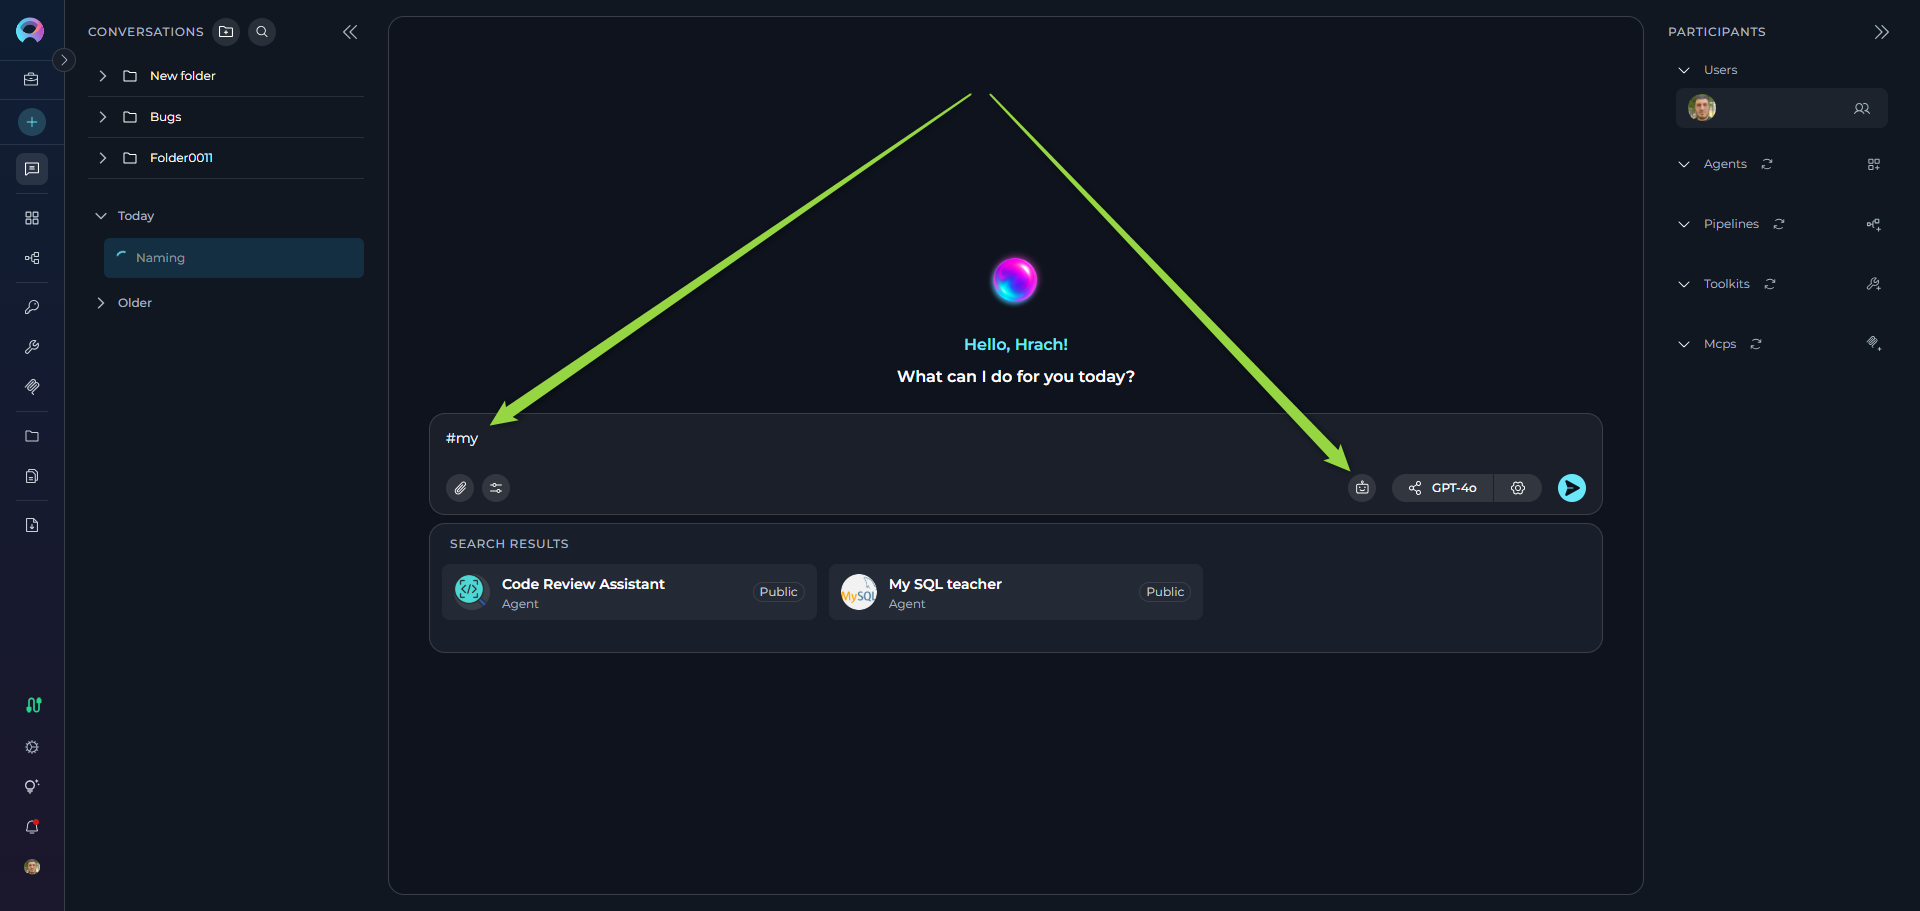
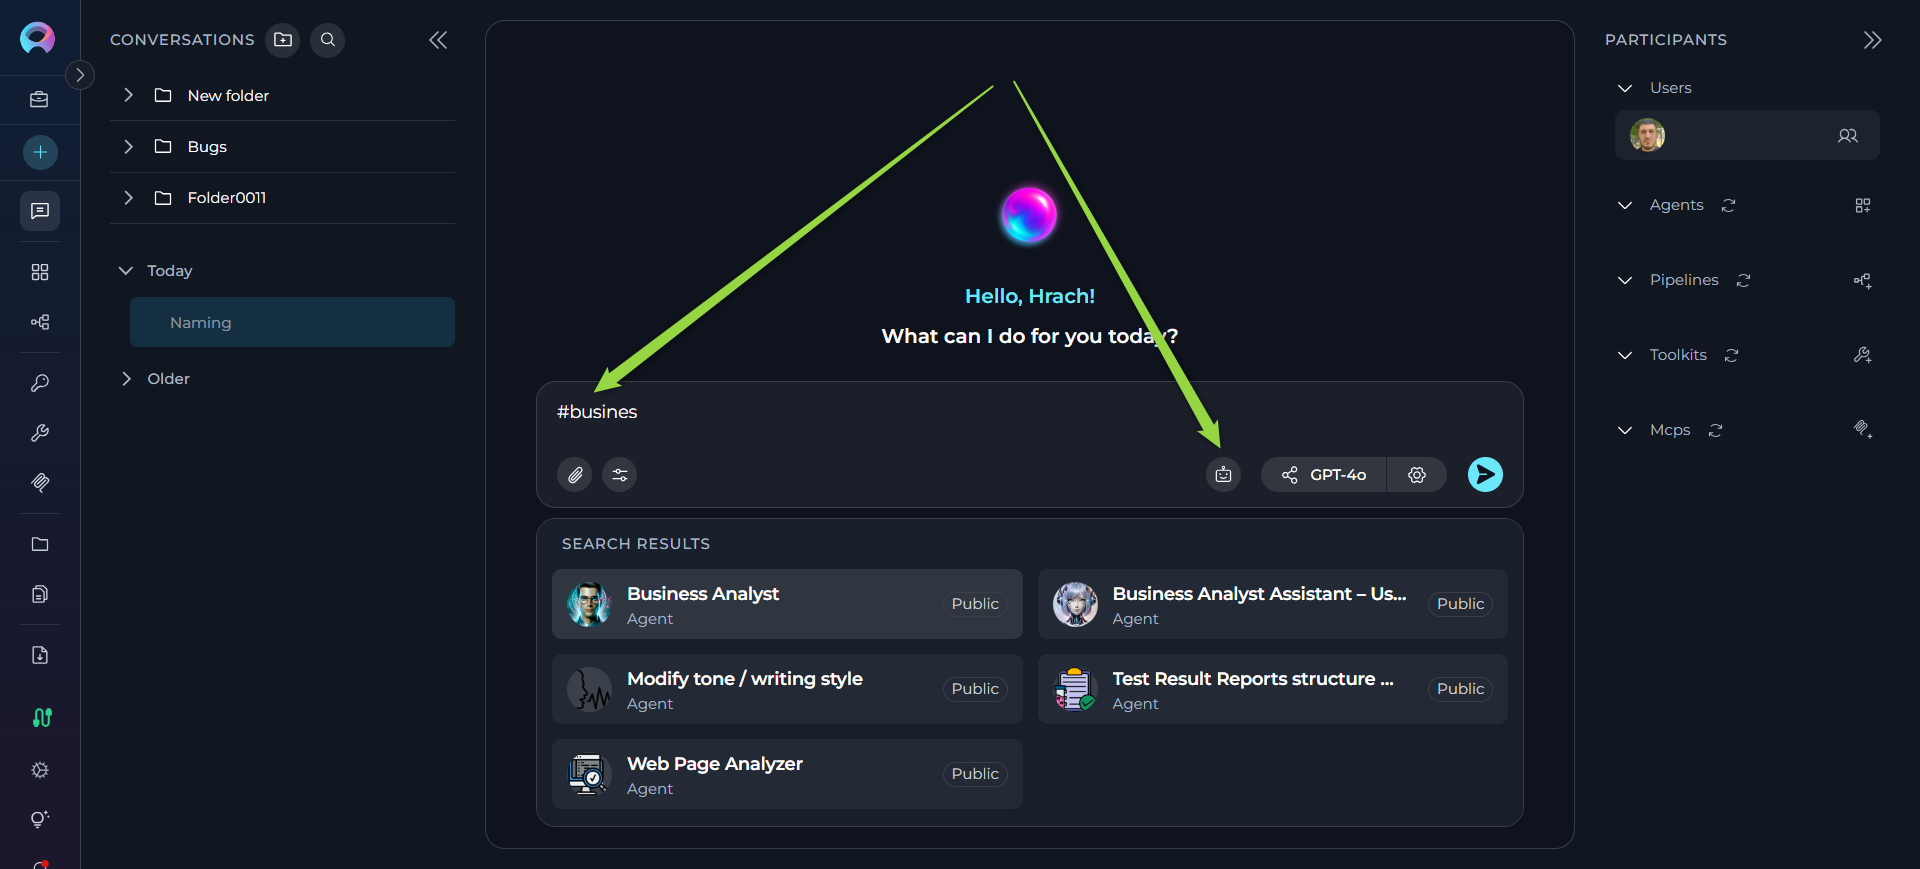
Update public items guide, remove toolkit content, add Business Analyst example

diff --git a/docs/how-tos/chat-conversations/use-public-items-from-chat.md b/docs/how-tos/chat-conversations/use-public-items-from-chat.md
@@ -1,8 +1,8 @@
-# How to Use Public Agents, Pipelines, and Toolkits from Chat
+# How to Use Public Agents and Pipelines from Chat
 
 ## Introduction
 
-While the **Public Project** has been removed from Elitea, **public agents, pipelines, and toolkits** remain fully accessible and usable within **Elitea Chat**. These community-shared resources provide pre-built workflows, specialized capabilities, and integrations that you can leverage directly in your conversations without needing to create them from scratch.
+While the **Public Project** has been removed from Elitea, **public agents and pipelines** remain fully accessible and usable within **Elitea Chat**. These community-shared resources provide pre-built workflows and specialized capabilities that you can leverage directly in your conversations without needing to create them from scratch.
 
 This guide explains how to discover, access, and use these public entities from the Chat interface, as well as their permissions and limitations.
 
@@ -10,7 +10,7 @@ This guide explains how to discover, access, and use these public entities from 
 
 ## Overview
 
-### What Are Public Agents, Pipelines, and Toolkits?
+### What Are Public Agents and Pipelines?
 
 **Public Agents:**
 
@@ -26,13 +26,6 @@ This guide explains how to discover, access, and use these public entities from 
 * Designed to handle complex, sequential tasks
 * Examples: Test case generation workflows, user story review pipelines
 
-**Public Toolkits:**
-
-* Collections of tools and integrations that extend chat capabilities
-* Bundle reusable actions for external services (GitHub, Jira, Confluence, etc.)
-* Can be shared for community reuse
-* Examples: GitHub integration toolkit, Slack connector, custom API toolkits
-
 ### Key Characteristics
 
 * **Community-Driven:** Shared by other Elitea users after quality review
@@ -45,7 +38,7 @@ This guide explains how to discover, access, and use these public entities from 
 
 ## Accessing Public Entities from Chat
 
-Public agents, pipelines, and toolkits are accessible directly within any conversation through the Chat interface.
+Public agents and pipelines are accessible directly within any conversation through the Chat interface.
 
 ### Method 1: Using the # Search
 
@@ -57,12 +50,12 @@ The quickest way to find and add public entities is using the `#` symbol:
 
 2. **Search for Public Entities:**
       * In the message input box, type `#` followed by the name or keywords
-      * A dropdown list appears showing matching agents, pipelines, and toolkits
+      * A dropdown list appears showing matching agents and pipelines
       * The list includes both your own entities and public community entities
       * Public entities are marked with a **"Public"** chip/badge for easy identification
 
 3. **Select the Entity:**
-      * Click on the desired agent, pipeline, or toolkit from the dropdown
+      * Click on the desired agent or pipeline from the dropdown
       * The selected entity appears as a chip above the input box
 
 4. **Send Your Message:**
@@ -70,7 +63,7 @@ The quickest way to find and add public entities is using the `#` symbol:
       * Click **Send** or press Enter
       * The public item will process your request
 
-![Search with #](../img/how-tos/chat-conversations/public-items/public-items-search.png)
+![Search with #](../../img/how-tos/chat-conversations/public-items/public-items-search.png)
 
 ### Method 2: Using the Participants Panel
 
@@ -78,10 +71,10 @@ You can also add public entities through the **PARTICIPANTS** panel on the right
 
 1. **Locate the Participants Panel:**
       * On the right side of the chat interface, find the **PARTICIPANTS** section
-      * You'll see collapsible sections for **Agents**, **Pipelines**, and **Toolkits**
+      * You'll see collapsible sections for **Agents** and **Pipelines**
 
 2. **Add Public Entities:**
-      * Click the **+** icon next to **Agents**, **Pipelines**, or **Toolkits**
+      * Click the **+** icon next to **Agents** or **Pipelines**
       * A dropdown list appears with available entities, including public ones
       * Public entities are marked with a **"Public"** chip/badge
       * Select the public entity you want to add
@@ -90,11 +83,11 @@ You can also add public entities through the **PARTICIPANTS** panel on the right
       * Click on the participant in the **PARTICIPANTS** list to activate it
       * Type your message and send
 
-![Participants Panel](../img/how-tos/chat-conversations/public-items/public-items-add-participants.png)
+![Participants Panel](../../img/how-tos/chat-conversations/public-items/public-items-add-participants.png)
 
 ---
 
-## Using Public Agents / Pipelines / Toolkits
+## Using Public Agents and Pipelines
 
 ### Using Public Agents
 
@@ -115,7 +108,83 @@ You can also add public entities through the **PARTICIPANTS** panel on the right
 
 !!! info "Visual Indicators"
     - Public agents are marked with a **"Public"** chip/badge, making them easily identifiable. This badge appears on the agent card in lists and search results, helping you quickly distinguish between your private agents and community-shared public agents.
-    ![alt text](../img/how-tos/chat-conversations/public-items/2025-11-10_17h09_35.png)
+    ![Public chip badge](../../img/how-tos/chat-conversations/public-items/public-chip.png)
+
+!!! example "Example: Using Business Analyst Agent"
+    The **Business Analyst** agent helps create requirements documentation, diagrams, and analysis artifacts for your projects.
+    
+    **Scenario:** You need user stories for an e-commerce shopping cart feature.
+    
+    **Step 1: Add the Agent**
+    
+    * Type `#Business Analyst` in the chat input box
+    * The agent appears in PARTICIPANTS with a "Public" badge
+
+    ![Use agent](../../img/how-tos/chat-conversations/public-items/agent-example.png)
+    
+    **Step 2: Ask Your Question**
+    
+    ```
+    You: I need user stories for adding items to a shopping cart
+    ```
+    
+    **Step 3: Agent Response**
+    
+    The agent provides a comprehensive guide on creating user stories, including:
+    
+    **Core Format:**
+    ```
+    As a [user/role], I want [capability] so that [benefit]
+    ```
+    
+    **Complete User Story Example:**
+    
+    | Title | Description | Acceptance Criteria | Priority | Story Points |
+    |---|---|---|---|---|
+    | Add item to cart | As a registered shopper, I want to add a product to my cart so that I can purchase later | See scenarios below | High | 3 |
+    
+    **Acceptance Criteria (Gherkin format):**
+    ```gherkin
+    Scenario: Add an in-stock item
+      Given I am a logged-in shopper
+      And product "ABC123" is in stock
+      When I click "Add to cart"
+      Then the item appears in my cart with quantity 1
+      And I see "Added to cart"
+    
+    Scenario: Prevent adding out-of-stock item
+      Given product "XYZ999" is out of stock
+      When I click "Add to cart"
+      Then I see "Item out of stock"
+      And the cart is unchanged
+    ```
+    
+    **Agent Also Provides:**
+    
+    - ✔ **Quality Checklist**: INVEST criteria (Independent, Negotiable, Valuable, Estimable, Small, Testable)
+    - ✔ **Story Splitting Techniques**: How to break down large stories
+    - ✔ **Non-Functional Requirements**: Performance, security, accessibility considerations
+    - ✔ **Traceability**: Links to business rules, test cases, and requirements
+    - ✔ **Alternative Formats**: YAML, Jira markup, or Azure DevOps format
+    
+    **Step 4: Request Specific Format**
+    
+    ```
+    You: Can you provide this in YAML format for our Azure DevOps board?
+    ```
+    
+    The agent will regenerate the story in your preferred format with all necessary fields.
+    
+    **Benefits:**
+    
+    - ⚡ **Fast**: Get complete, well-structured user stories in seconds
+    - 📋 **Standards-Based**: Follows BABOK, IIBA, and Agile best practices
+    - 🔄 **Adaptable**: Works with Jira, Azure DevOps, Confluence, or plain Markdown
+    - 🎯 **Complete**: Includes acceptance criteria, NFRs, and traceability
+    
+    **Tip:** Click **⚙** next to the agent to adjust Temperature (lower = more structured output) for your current session.
+
+    ![Use agent](../../img/how-tos/chat-conversations/public-items/public-agent-example.png)
 
 ### Using Public Pipelines
 
@@ -137,30 +206,7 @@ You can also add public entities through the **PARTICIPANTS** panel on the right
 
 !!! info "Pipeline Configuration"
     Public pipelines are marked with a **"Public"** chip/badge for easy identification. You can view pipeline workflow and settings using the settings icon (⚙). Public pipelines open with limited editing capabilities when you click settings—you cannot modify or save the workflow, but you can inspect it to understand how it works.
-    ![alt text](../img/how-tos/chat-conversations/public-items/2025-11-10_17h09_35.png)
-
-
-### Using Public Toolkits
-
-**Step-by-Step:**
-
-1. **Add the Public Toolkit:**
-     * Click **+** next to **Toolkits** in the PARTICIPANTS panel
-     * Select the public toolkit from the dropdown
-
-2. **Toolkit Appears in Conversation:**
-     * The toolkit is added with all previously configured tools enabled
-     * Individual tools within the toolkit become available to active agents/pipelines
-
-3. **Use in Conversation:**
-     * Public toolkits work in conjunction with agents or pipelines
-     * When an agent/pipeline needs a capability, it can invoke tools from the public toolkit
-     * You can also directly request actions: "Use GitHub toolkit to create an issue"
-
-!!! tip "Toolkit Configuration"
-    Public toolkits are marked with a **"Public"** chip/badge for easy identification. They may require credentials or configuration. Some public toolkits are published with demo/shared credentials for community use—check toolkit configuration to see what's available.
-    ![Chip](../img/how-tos/chat-conversations/public-items/public-chip.png)
-
+    ![Public chip badge](../../img/how-tos/chat-conversations/public-items/public-chip.png)
 
 ---
 
@@ -174,7 +220,6 @@ You can also add public entities through the **PARTICIPANTS** panel on the right
 | **Add to Chat** | ✔ Via # search or + button | ✔ Via # search or + button |
 | **Temporary Model Changes** | ✔ Change LLM & settings (session only) | ✔ Full control |
 | **Temporary Variables (Agents)** | ✔ Modify variables (session only) | ✔ Full control |
-| **Temporary Credentials (Toolkits)** | ✔ Select/create (session only) | ✔ Full control |
 | **Save Changes** | ✘ Cannot save any modifications | ✔ Can save all changes |
 | **Edit Core Configuration** | ✘ Prompts, workflows read-only | ✔ Full edit access |
 | **Duplication** | ✔ Can create your own copy | ✔ Can duplicate |
@@ -187,7 +232,7 @@ You can also add public entities through the **PARTICIPANTS** panel on the right
 
 ✔ **Execute Public Entities:**
 
-* Run public agents, pipelines, and toolkits in your conversations
+* Run public agents and pipelines in your conversations
 * Use them as many times as needed
 * Combine multiple public entities in one conversation
 
@@ -224,27 +269,15 @@ Public entities open with limited editing capabilities. You can view configurati
 !!! warning "LLM and Settings Configuration"
     LLM model and settings selections become enabled only after selecting the pipeline as an active participant. Once the pipeline is active in the **PARTICIPANTS** list, you can then access and temporarily modify the LLM model and model settings for your current conversation session.    
 
-**For Toolkits:**
-
-* Click the toolkit in **PARTICIPANTS** → Click **Edit** icon (if available)
-* Toolkit configuration opens with limited editing
-* **You CAN temporarily configure:**
-    * Select or create credentials
-    * Select PG Vector configuration
-    * Select embedding models
-* **You CANNOT modify:**
-    * Any configuration changes
-    * Tool selection
-
 !!! important "Session-Only Changes"
     All temporary modifications apply only to your current conversation. Starting a new conversation with the same public entity will revert to the original default configuration. This allows you to experiment without affecting the public version or other users.
 
 ✔ **Create Your Own Versions:**
 
-* While you cannot save modifications to public entities, you can create your own agent/pipeline/toolkit
+* While you cannot save modifications to public entities, you can create your own agent or pipeline
 * Copy concepts and adapt them to your needs in your Private or Team projects
 * Save customized versions permanently in your workspace
-
+hat-conversations
 ### What You Cannot Do
 
 ✘ **Save Modifications to Public Entities:**
@@ -260,11 +293,6 @@ Public entities open with limited editing capabilities. You can view configurati
 
 ### Important Notes
 
-**Credentials in Public Toolkits:**
-
-* You can temporarily select different credentials or create new ones for your conversation
-* Private/sensitive credentials are never exposed in public toolkits
-
 **When Creating Your Own Versions:**
 
 * **Learn from Public Entities:** Study how successful entities are structured, understand prompt engineering techniques, and learn effective workflow patterns
@@ -274,23 +302,21 @@ Public entities open with limited editing capabilities. You can view configurati
 ---
 
 !!! note "Related Resources"
-    * **[How to Use Chat Functionality](chat-conversations/how-to-use-chat-functionality.md)** - Complete guide to Chat features
-    * **[How to Create and Edit Agents from Canvas](chat-conversations/how-to-create-and-edit-agents-from-canvas.md)** - Learn to create your own agents
-    * **[How to Create and Edit Pipelines from Canvas](chat-conversations/how-to-create-and-edit-pipelines-from-canvas.md)** - Build custom pipelines
-    * **[How to Create and Edit Toolkits from Canvas](chat-conversations/how-to-create-and-edit-toolkits-from-canvas.md)** - Configure toolkit integrations
-    * **[Agents Menu Guide](../menus/agents.md)** - Browse and manage agents
-    * **[Pipelines Menu Guide](../menus/pipelines.md)** - Explore pipeline workflows
-    * **[Toolkits Menu Guide](../menus/toolkits.md)** - Configure integrations
+    * **[How to Use Chat Functionality](how-to-use-chat-functionality.md)** - Complete guide to Chat features
+    * **[How to Create and Edit Agents from Canvas](how-to-create-and-edit-agents-from-canvas.md)** - Learn to create your own agents
+    * **[How to Create and Edit Pipelines from Canvas](how-to-create-and-edit-pipelines-from-canvas.md)** - Build custom pipelines
+    * **[Agents Menu Guide](../../menus/agents.md)** - Browse and manage agents
+    * **[Pipelines Menu Guide](../../menus/pipelines.md)** - Explore pipeline workflows
 
 ---
 
 ## Summary
 
-Public agents, pipelines, and toolkits provide immediate access to community-tested workflows and capabilities without the overhead of creating them yourself. While the Public Project interface has been removed, these resources remain accessible directly from Chat, where you can:
+Public agents and pipelines provide immediate access to community-tested workflows and capabilities without the overhead of creating them yourself. While the Public Project interface has been removed, these resources remain accessible directly from Chat, where you can:
 
 * ✔ Search and add public entities using `#` or the Participants panel
 * ✔ Execute them freely in your conversations
-* ✔ Make temporary adjustments to model settings, variables, and credentials for your session
+* ✔ Make temporary adjustments to model settings and variables for your session
 * ✔ View their core configurations (prompts, workflows) in read-only mode
 * ✔ Learn from them to create your own custom versions with saved modifications
 
